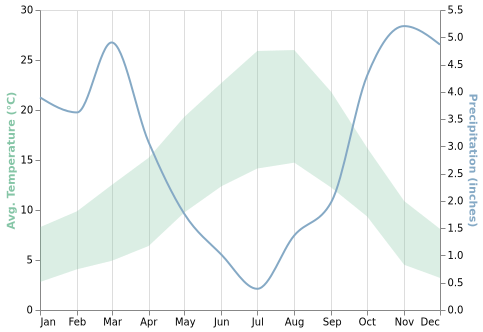
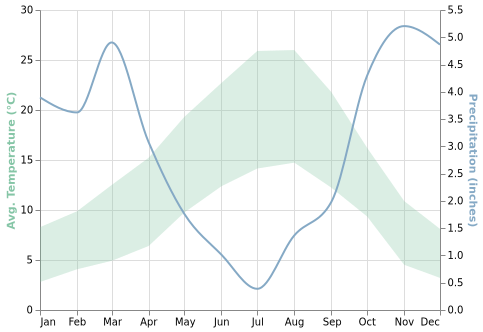
fix: show gridline of first axis only for dual axes charts (#8962)

diff --git a/src/compile/axis/parse.ts b/src/compile/axis/parse.ts
@@ -93,10 +93,10 @@ export function parseLayerAxes(model: LayerModel) {
       delete child.component.axes[channel];
     }
 
-    // Suppress grid lines for dual axis charts (https://github.com/vega/vega-lite/issues/4676)
+    // Show gridlines for first axis only for dual-axis chart
     if (resolve.axis[channel] === 'independent' && axes[channel] && axes[channel].length > 1) {
-      for (const axisCmpt of axes[channel]) {
-        if (!!axisCmpt.get('grid') && !axisCmpt.explicit.grid) {
+      for (const [index, axisCmpt] of (axes[channel] || []).entries()) {
+        if (index > 0 && !!axisCmpt.get('grid') && !axisCmpt.explicit.grid) {
           axisCmpt.implicit.grid = false;
         }
       }
